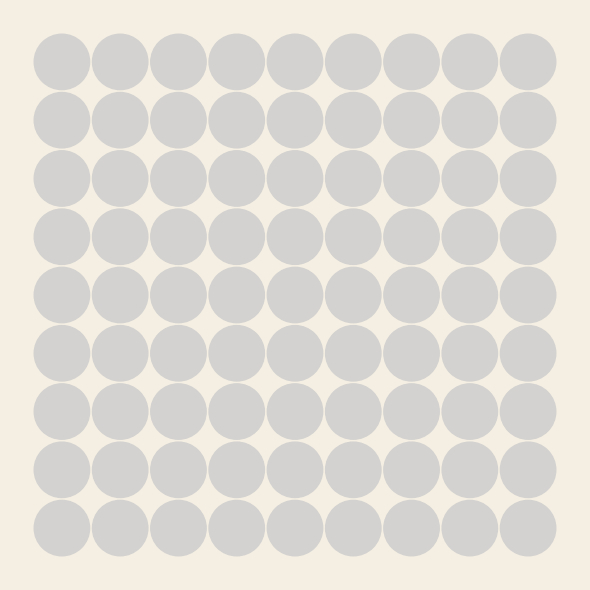
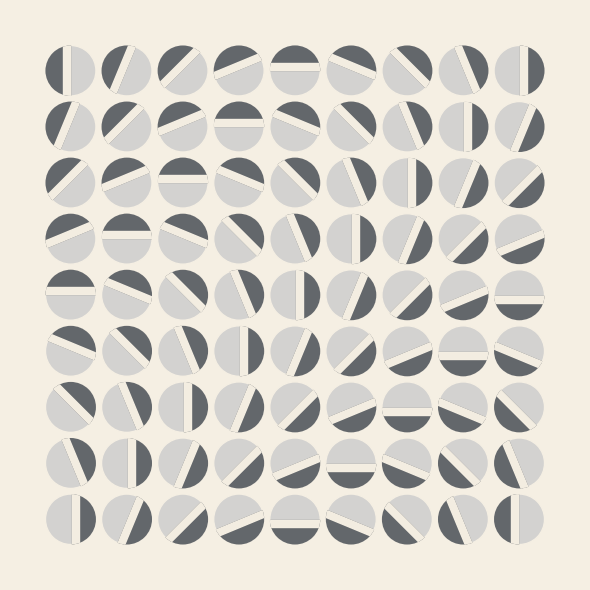
Julio Le Parc: implement patch design for Fractioned Circles

diff --git a/julio-le-parc-replications/master_script.py b/julio-le-parc-replications/master_script.py
@@ -202,11 +202,42 @@ def plot_rotations_patch(
     return (patch, clip_patch)
 
 
-def plot_fractioned_circle_patch(centre, colour):
+def plot_fractioned_circle_patch(
+        centre, rect_angle, dark_colour, light_colour, background_colour, ax):
     """ TODO. """
-    return mpatches.Circle(
-        centre, 0.475, color=colour
+    # These parameters are adapted to match the original design:
+    radius = 0.45
+    offset_amount = 0.02
+    light_offset = 0.5
+    padding = 0.03
+    line_size = 0.12
+
+    # Note: get a very thin but still visible edge line on circle even if set
+    # linewidth to zero, so to workaround make edgecolour background colour.
+    light_patch = mpatches.Circle(
+        centre, radius, facecolor=light_colour,
+        edgecolor=background_colour,
     )
+    start_at = (centre[0] + offset_amount, centre[1] - radius)
+    clip_alpha = 3
+    # The clipping rectangle, rotated appropriately (no need to rotate circle!)
+    clip_patch = mpatches.Rectangle(
+        start_at,
+        line_size,
+        2 * radius, color=background_colour,
+        transform=mtransforms.Affine2D().rotate_deg_around(
+            *centre, rect_angle) + ax.transData,
+        alpha=clip_alpha
+    )
+    dark_patch = mpatches.Rectangle(
+        start_at,
+        radius,
+        2 * radius, color=dark_colour,
+        transform=mtransforms.Affine2D().rotate_deg_around(
+            *centre, rect_angle) + ax.transData,
+        alpha=clip_alpha - 1,
+    )
+    return (dark_patch, light_patch, clip_patch)
 
 
 def plot_simple_cross(centre, base_theta, colour_1, colour_2):
@@ -285,12 +316,28 @@ def plot_rotations(axes):
 def plot_rotation_of_fractioned_circles(axes):
     """ TODO. """
     design_name = "ROTATION OF FRACTIONED CIRCLES"
-    grid_points = range(NUMBER_GRIDPOINTS_PER_SIDE[design_name])
+    points = NUMBER_GRIDPOINTS_PER_SIDE[design_name]
+    grid_points = range(points)
+
+    angles_array = create_rotations_angles_array(
+        grid_points,
+        number_points_per_side=points
+    )
     for i, j in itertools.product(grid_points, grid_points):
-        # Now create and plot the wedges onto the canvas:
         position_xy = (IMAGE_PAD_POINTS + i, IMAGE_PAD_POINTS + j)
-        axes.add_patch(plot_fractioned_circle_patch(
-            position_xy, colour=COLOURS[design_name]["LIGHT GREY"]))
+        dark_cir, light_cir, off_white_line = plot_fractioned_circle_patch(
+            position_xy,
+            angles_array[i][j],
+            COLOURS[design_name]["DARK GREY"],
+            COLOURS[design_name]["LIGHT GREY"],
+            COLOURS[design_name]["OFF WHITE"],
+            axes,
+        )
+        axes.add_patch(light_cir)
+        dark_cir.set_clip_path(light_cir)
+        axes.add_patch(dark_cir)
+        off_white_line.set_clip_path(light_cir)
+        axes.add_patch(off_white_line)
 
 
 def plot_rotation_in_red_and_black(axes):
@@ -351,6 +398,7 @@ def plot_and_save_design(design_name, plot_func, save_dir):
 # Plot all four designs
 # TODO: note that only 1 and 2 complete; 3 and 4 are under development,
 # hence commented out for the moment.
+"""
 plot_and_save_design(
     "MUTATION OF FORMS", plot_mutation_of_forms, "mutation_of_forms")
 plot_and_save_design("ROTATIONS", plot_rotations, "rotations")
@@ -359,6 +407,7 @@ plot_and_save_design(
     "ROTATION OF FRACTIONED CIRCLES", plot_rotation_of_fractioned_circles,
     "rotation_of_fractioned_circles"
 )
+"""
 plot_and_save_design(
     "ROTATION IN RED AND BLACK", plot_rotation_in_red_and_black,
     "rotation_in_red_and_black"
